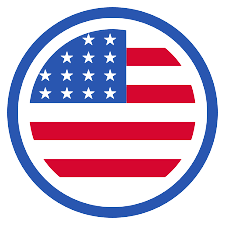
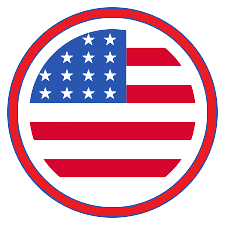
refatorando

Changed region(s): [[0.0311, 0.0311, 0.9644, 0.9644]]

diff --git a/src/telas/Cesta/componentes/Total.js b/src/telas/Cesta/componentes/Total.js
@@ -7,34 +7,38 @@ import Texto from "../../../componentes/Texto";
 import { resetarCesta } from "../../../services/requests/carrinho";
 import Vazia from './Vazia';
 
-export default function Total({ totalPrice }) {
+export default function Total({ cestinha, totalPrice }) {
 
     const navigation = useNavigation();
-
     const { t, i18n } = useTranslation();
 
     const aoPressionar = () => {
-        Alert.alert(t('cesta.warning.warn'), t('cesta.warning.ask'), [
-            {
-                text: t('cesta.warning.goback'),
-            },
-            {
-                text: t('cesta.warning.confirm'),
-                onPress: async () => {
-                    const resultado = await resetarCesta();
-                    if (resultado === "sucesso") {
-                        navigation.navigate('FeedBack')
-                    } else {
-                        Alert.alert(t('cesta.warning.wrong'));
-                    }
+        if (totalPrice > 0) {
+            Alert.alert(t('cesta.warning.warn'), t('cesta.warning.ask'), [
+                {
+                    text: t('cesta.warning.goback'),
+                },
+                {
+                    text: t('cesta.warning.confirm'),
+                    onPress: async () => {
+                        const resultado = await resetarCesta();
+                        if (resultado === "sucesso") {
+                            navigation.navigate('FeedBack')
+                        } else {
+                            Alert.alert(t('cesta.warning.wrong'));
+                        }
 
+                    }
                 }
-            }
-        ])
+            ])
+        }
+        else{
+            Alert.alert(t('cesta.warning.quantidade'))
+        }
     }
 
     return <SafeAreaView>
-        {totalPrice > 0 ? (
+        {cestinha > 0 ? (
             <View style={estilos.cesta}>
                 <Texto style={estilos.nome}>{t('cesta.detalhes.title')}</Texto>
                 <Texto style={estilos.descricao}>{t('cesta.detalhes.description')}</Texto>

diff --git a/src/rotas/AppRotas.js b/src/rotas/AppRotas.js
@@ -20,13 +20,13 @@ export default function AppRotas() {
 
                 let Icon = <Icones familia={'Feather'} icone={'home'} tipo={'tabBar'} interagivel={false} cor={focused ? "#2a9f08" : "#C7C7C7"} />;
 
-                if (route.name === 'Carrinho') {
+                if (route.name === t('tabBar.Carrinho')) {
                     Icon = <Icones familia={'Feather'} icone={'shopping-cart'} tipo={'tabBar'} interagivel={false} cor={focused ? "#2a9f08" : "#C7C7C7"} />
                 }
-                else if (route.name === 'Biblioteca') {
+                else if (route.name === t('tabBar.Biblioteca')) {
                     Icon = <Icones familia={'MaterialCommunityIcons'} icone={'bookshelf'} tipo={'tabBar'} interagivel={false} cor={focused ? "#2a9f08" : "#C7C7C7"} />
                 }
-                else if (route.name === 'Explorar') {
+                else if (route.name === t('tabBar.Explorar')) {
                     Icon = <Icones familia={'Fontisto'} icone={'compass-alt'} tipo={'tabBar'} interagivel={false} cor={focused ? "#2a9f08" : "#C7C7C7"} />
                 }
                 return Icon
@@ -37,13 +37,14 @@ export default function AppRotas() {
             tabBarLabelStyle: {
                 fontSize: 14,
                 marginBottom: 5,
+                
             },
             tabBarStyle: {
-                height: 55
+                height: 60,
             },
             tabBarHideOnKeyboard: true,
         })}>
-            <Tab.Screen name={t('tabBar.Home')} component={LivroRotas} />
+            <Tab.Screen name={t('tabBar.Home')} component={LivroRotas}/>
             <Tab.Screen name={t('tabBar.Biblioteca')} component={BibliotecaRotas} />
             <Tab.Screen name={t('tabBar.Explorar')} component={ExplorarRotas} />
             <Tab.Screen name={t('tabBar.Carrinho')} component={CestaRotas} />

diff --git a/src/telas/Home/Componentes/Topo.js b/src/telas/Home/Componentes/Topo.js
@@ -12,6 +12,7 @@ import useBusca from "../../../hooks/useBusca";
 export default function Home() {
 
     const [nomeLivro, setnomeLivro] = useState('');
+    const [thisFlag, setFlag] = useState(true);
     const lista = useBusca(nomeLivro);
     const isFocused = useIsFocused();
     const { t, i18n } = useTranslation();
@@ -26,6 +27,14 @@ export default function Home() {
         }
     }, [isFocused]);
 
+    useEffect(() => {
+        if (i18n.language == 'pt') {
+            setFlag(true)
+        }
+        else
+            setFlag(false)
+    })
+    
     return <View>
 
         <View style={estilos.topo}>
@@ -33,11 +42,11 @@ export default function Home() {
                 <Texto style={estilos.titulo}>{t('home.topo.title')}</Texto>
                 <View style={myEstilos.flags}>
                     <TouchableOpacity onPress={() => changeLanguage('pt')}>
-                        <Image source={brazil} style={myEstilos.flag} />
+                        <Image source={brazil} style={[myEstilos.flag, { borderColor: 'blue', borderWidth: thisFlag ? 3 : 0 }]} />
                     </TouchableOpacity>
 
                     <TouchableOpacity onPress={() => changeLanguage('en')}>
-                        <Image source={usa} style={myEstilos.flag} />
+                        <Image source={usa} style={[myEstilos.flag, { borderColor: 'red', borderWidth: thisFlag ? 0 : 3 }]} />
                     </TouchableOpacity>
 
                 </View>
@@ -105,6 +114,7 @@ const myEstilos = StyleSheet.create({
     flag: {
         width: 30,
         height: 30,
-        marginHorizontal: 4
+        marginHorizontal: 4,
+        borderRadius: 15,
     }
 })

diff --git a/src/componentes/Input.js b/src/componentes/Input.js
@@ -3,28 +3,28 @@ import React from "react";
 import { TextInput } from "react-native";
 
 export default function Input({ valor, acao }) {
-
     const numberToString = String(valor);
 
     const atualiza = (novoValor, acaoRetorno) => {
-        const verfInt = novoValor.match(/^[0-9]*$/)
-        if (!verfInt) return;
-
-        const removeZeroLeft = novoValor.replace(/^(0)(.+)/, '$2');
-
-        acaoRetorno(removeZeroLeft)
+        const digit = novoValor.charAt(0); // Obtém o primeiro dígito do novoValor
+        if (digit === '' || /^\d$/.test(digit)) {
+            acaoRetorno(digit); // Retorna apenas o primeiro dígito ou uma string vazia
+        }
     }
 
-    return <TextInput
-        style={{
-            borderBottomWidth: 0.4,
-            textAlign: "center",
-            borderColor: "#A3A3A3",
-            color: "#636363",
-        }}
-        keyboardType="number-pad"
-        selectTextOnFocus
-        onChangeText={(novoValor) => { atualiza(novoValor, acao) }}
-        value={numberToString}
-    />
+    return (
+        <TextInput
+            style={{
+                borderBottomWidth: 0.4,
+                textAlign: "center",
+                borderColor: "#A3A3A3",
+                color: "#636363",
+            }}
+            keyboardType="number-pad"
+            selectTextOnFocus
+            onChangeText={(novoValor) => { atualiza(novoValor, acao) }}
+            value={numberToString}
+        />
+    );
 }
+

diff --git a/src/telas/Produto/componentes/Dados.js b/src/telas/Produto/componentes/Dados.js
@@ -13,7 +13,7 @@ export default function Dados() {
     const { t, i18n } = useTranslation();
 
     const Infomation = ({ icone, cor, val, legend, family = null, }) => <View>
-        <View style={{ flexDirection: "row" }}>
+        <View style={estilos.container}>
             <Icones familia={family} icone={icone} tipo={'capa'} cor={cor} />
             <Texto style={estilos.titulo}>{val}</Texto>
         </View>
@@ -31,6 +31,11 @@ export default function Dados() {
 
 const estilos = StyleSheet.create({
 
+    container: {
+        flexDirection: "row",
+        alignItems: "center"
+    },
+
     dados: {
         marginLeft: 20,
         justifyContent: "space-between",
@@ -38,7 +43,6 @@ const estilos = StyleSheet.create({
     },
     titulo: {
         fontSize: 16,
-        marginTop: 4,
         fontWeight: "bold",
         marginLeft: 8,
     },

diff --git a/src/telas/Cesta/componentes/Detalhes.js b/src/telas/Cesta/componentes/Detalhes.js
@@ -15,9 +15,11 @@ export default function Detalhes({ topo: Topo, total: Total }) {
     const [totalPrice, setTotalPrice] = useState(0);
     const [itemTotals, setItemTotals] = useState({});
     const [livros, setLivros] = useState([]);
+    const [cestinha, setCestinha] = useState(0);
 
     useEffect(() => {
         if (lista.length > 0) {
+            setCestinha(lista.length)
             setLivros(lista);
             updateTotalPrice();
         }
@@ -56,7 +58,7 @@ export default function Detalhes({ topo: Topo, total: Total }) {
         return (
             <SafeAreaView>
                 <Topo />
-                <Total totalPrice={totalPrice} />
+                <Total cestinha={cestinha} totalPrice={totalPrice} />
             </SafeAreaView>
         )
     }

diff --git a/src/skeleton/FakeProduto.js b/src/skeleton/FakeProduto.js
@@ -73,7 +73,7 @@ export default function FakeProduto({ visible, children }) {
                     <AnimetedView width={'40%'} length={400} />
                 </View>
                 <View style={estilos.autor}>
-                    <AnimetedView width={'40%'} length={200} />
+                    <AnimetedView width={'40%'} length={300} />
                 </View>
             </View>
 

diff --git a/src/componentes/Icones.js b/src/componentes/Icones.js
@@ -60,7 +60,8 @@ export default function Icones({ familia, icone, tipo, cor, interagivel = true }
 const estilos = StyleSheet.create({
 
     tabBar: {
-        fontSize: 20,
+        fontSize: 22,
+        marginTop: 5,
     },
 
     capa: {
